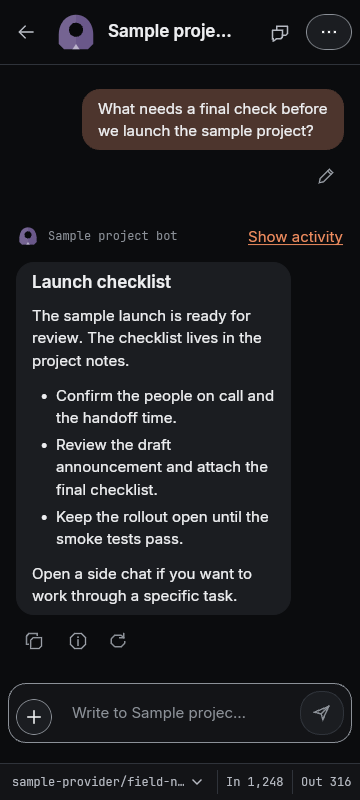
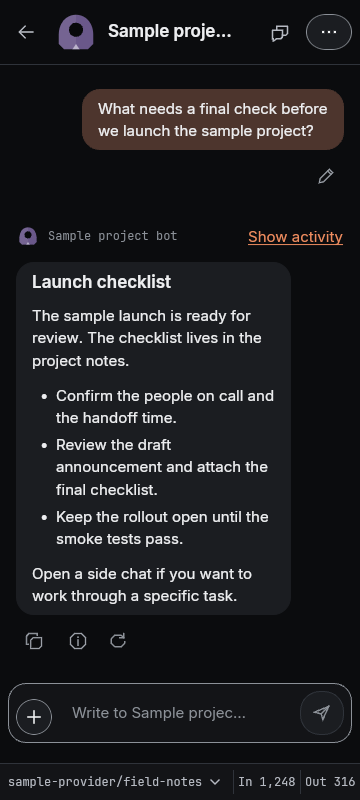
fix: preserve composer button bounds and fit the status bar on phones

diff --git a/src/Drover.Native/Controls/Menu.cs b/src/Drover.Native/Controls/Menu.cs
@@ -22,6 +22,8 @@ public sealed class Menu : Grid
 
     private MenuItem? afterClose;
 
+    private Pressable? opener;
+
     #endregion
 
     #region Constructors
@@ -35,7 +37,7 @@ public sealed class Menu : Grid
         trigger.Content = content;
         trigger.Padding = new(Tokens.Number("DvSpace3"), 0, Tokens.Number("DvSpace3"), 0);
         trigger.FontWeight = (Windows.UI.Text.FontWeight)Tokens.Dictionary["DvWeightLabel"];
-        trigger.Click += (_, _) => OpenList();
+        trigger.Click += (_, _) => OpenAt(trigger);
         Children.Add(trigger);
 
         flyout.Content = list;
@@ -116,6 +118,28 @@ public sealed class Menu : Grid
 
     #endregion
 
+    #region Internal Methods
+
+    /// <summary>Opens the actions from a control that has its own layout and accessible name.</summary>
+    internal void OpenAt(Pressable anchor)
+    {
+        opener = anchor;
+        var presenter = new Style(typeof(FlyoutPresenter));
+        presenter.Setters.Add(new Setter(Control.BackgroundProperty, Tokens.Brush(anchor, "DvBg2")));
+        presenter.Setters.Add(new Setter(Control.BorderBrushProperty, Tokens.Brush(anchor, "DvLine")));
+        presenter.Setters.Add(new Setter(Control.BorderThicknessProperty, new Thickness(Tokens.Number("DvBorder"))));
+        presenter.Setters.Add(new Setter(Control.CornerRadiusProperty, new CornerRadius(Tokens.Number("DvRadiusCard"))));
+        presenter.Setters.Add(new Setter(Control.PaddingProperty, new Thickness(Tokens.Number("DvSpace1"))));
+        presenter.Setters.Add(new Setter(MinWidthProperty, Tokens.Number("DvMenuWidth")));
+        presenter.Setters.Add(new Setter(MinHeightProperty, 0d));
+        presenter.Setters.Add(new Setter(Control.IsTabStopProperty, false));
+        flyout.FlyoutPresenterStyle = presenter;
+        list.RequestedTheme = anchor.ActualTheme;
+        flyout.ShowAt(anchor);
+    }
+
+    #endregion
+
     #region Private Methods
 
     private void Describe()
@@ -137,22 +161,6 @@ public sealed class Menu : Grid
         }
     }
 
-    private void OpenList()
-    {
-        var presenter = new Style(typeof(FlyoutPresenter));
-        presenter.Setters.Add(new Setter(Control.BackgroundProperty, Tokens.Brush(this, "DvBg2")));
-        presenter.Setters.Add(new Setter(Control.BorderBrushProperty, Tokens.Brush(this, "DvLine")));
-        presenter.Setters.Add(new Setter(Control.BorderThicknessProperty, new Thickness(Tokens.Number("DvBorder"))));
-        presenter.Setters.Add(new Setter(Control.CornerRadiusProperty, new CornerRadius(Tokens.Number("DvRadiusCard"))));
-        presenter.Setters.Add(new Setter(Control.PaddingProperty, new Thickness(Tokens.Number("DvSpace1"))));
-        presenter.Setters.Add(new Setter(MinWidthProperty, Tokens.Number("DvMenuWidth")));
-        presenter.Setters.Add(new Setter(MinHeightProperty, 0d));
-        presenter.Setters.Add(new Setter(Control.IsTabStopProperty, false));
-        flyout.FlyoutPresenterStyle = presenter;
-        list.RequestedTheme = ActualTheme;
-        flyout.ShowAt(trigger);
-    }
-
     // The menu closes and the focus goes back to its button first, so a dialog the action opens remembers the
     // button as the place to return to.
     private void Choose(object sender, RoutedEventArgs args)
@@ -171,7 +179,7 @@ public sealed class Menu : Grid
 
     private void Act(MenuItem item)
     {
-        trigger.TakeFocus();
+        (opener ?? trigger).TakeFocus();
         item.RaiseSelected();
     }
 

diff --git a/src/Drover.Native/Chat/Composer.cs b/src/Drover.Native/Chat/Composer.cs
@@ -25,13 +25,17 @@ public sealed class Composer : Grid
 
     private readonly TravelLine travel = new();
 
-    private readonly Menu more = new()
+    private readonly IconButton more = new()
     {
-        TriggerIcon = IconName.Plus,
+        Icon = IconName.Plus,
         Label = "More options",
-        ShowTriggerLabel = false,
-        Placement = FlyoutPlacementMode.TopEdgeAlignedLeft,
         VerticalAlignment = VerticalAlignment.Bottom,
+    };
+
+    private readonly Menu options = new()
+    {
+        Label = "Message options",
+        Placement = FlyoutPlacementMode.TopEdgeAlignedLeft,
     };
 
     private readonly TextBox field = new()
@@ -91,10 +95,7 @@ public sealed class Composer : Grid
 
         voice = Pieces.Make<VoiceComposerViewModel>(this);
         Labelled(attach, IconName.Attach, "Attach file");
-        more.Trigger.Padding = new(0);
-        more.Trigger.MinWidth = Targets.Minimum;
-        ToolTipService.SetToolTip(more.Trigger, more.Label);
-        more.Items.Add(attach);
+        options.Items.Add(attach);
         IconOnly(stop, IconName.Stop, StopLabel);
         IconOnly(send, IconName.Send, SendLabel);
         if (OperatingSystem.IsAndroid())
@@ -113,7 +114,7 @@ public sealed class Composer : Grid
         AutomationProperties.SetAutomationId(send, "ComposerSend");
         AutomationProperties.SetAutomationId(stop, "ComposerStop");
         AutomationProperties.SetAutomationId(attach, "ComposerAttach");
-        AutomationProperties.SetAutomationId(more.Trigger, "ComposerMore");
+        AutomationProperties.SetAutomationId(more, "ComposerMore");
 
         BuildField();
         BuildRow();
@@ -125,12 +126,13 @@ public sealed class Composer : Grid
         column.Children.Add(spoken);
         Children.Add(column);
 
+        more.Click += (_, _) => options.OpenAt(more);
         attach.Selected += async (_, _) => await Pick();
         pickModel.Selected += (_, _) =>
         {
             if (model is { } shown)
             {
-                Picker?.Open(more.Trigger, shown);
+                Picker?.Open(more, shown);
             }
         };
         stop.Click += async (_, _) => await (model?.Cancel() ?? Task.CompletedTask);
@@ -413,16 +415,16 @@ public sealed class Composer : Grid
         var offersModel = modelPickerInMenu && Picker is not null && model is { HasModelChoice: true };
         pickModel.IsEnabled = model is { Disabled: false, ChoosingModel: false };
 
-        if (offersModel && !more.Items.Contains(pickModel))
+        if (offersModel && !options.Items.Contains(pickModel))
         {
-            more.Items.Add(pickModel);
+            options.Items.Add(pickModel);
         }
         else if (!offersModel)
         {
-            more.Items.Remove(pickModel);
+            options.Items.Remove(pickModel);
         }
 
-        more.Trigger.IsEnabled = attach.IsEnabled || (offersModel && pickModel.IsEnabled);
+        more.IsEnabled = attach.IsEnabled || (offersModel && pickModel.IsEnabled);
     }
 
     // A narrow window with Stop and Send side by side gives the field the whole first row and puts the two under it.

diff --git a/src/Drover.Native/Chat/ConversationStatus.cs b/src/Drover.Native/Chat/ConversationStatus.cs
@@ -51,6 +51,7 @@ public sealed class ConversationStatus : Border
         Grid.SetColumn(expand, 1);
         name.Children.Add(modelWords);
         name.Children.Add(expand);
+        modelButton.Padding = Tokens.Space("DvSpace2", "DvSpace1");
         modelButton.Content = name;
 
         current.Margin = Tokens.Space("DvSpace3", "DvSpace1");
@@ -204,7 +205,7 @@ public sealed class ConversationStatus : Border
             {
                 Child = label,
                 VerticalAlignment = VerticalAlignment.Center,
-                Padding = Tokens.Space("DvSpace2", "DvSpace1"),
+                Padding = new(Tokens.Number("DvSpace1")),
                 BorderBrush = Tokens.Brush(this, "DvLine"),
                 BorderThickness = new(Tokens.Number("DvBorder"), 0, 0, 0),
             });

diff --git a/README.md b/README.md
@@ -31,7 +31,7 @@ The server holds the permissions. A bot can only call a tool you granted it, and
 <p align="center">
   <picture>
     <source media="(prefers-color-scheme: light)" srcset="docs/images/readme/conversation-light.png" />
-    <img src="docs/images/readme/conversation-dark.png" width="900" alt="Drover in a browser with a sample conversation and its open ledger. Colored icons mark web search and a page read, and a gray terminal icon marks a command." />
+    <img src="docs/images/readme/conversation-dark.png" width="900" alt="Drover in a browser with a sample conversation. The status bar below the message field shows the current model and the latest reply's input and output tokens." />
   </picture>
 </p>
 
